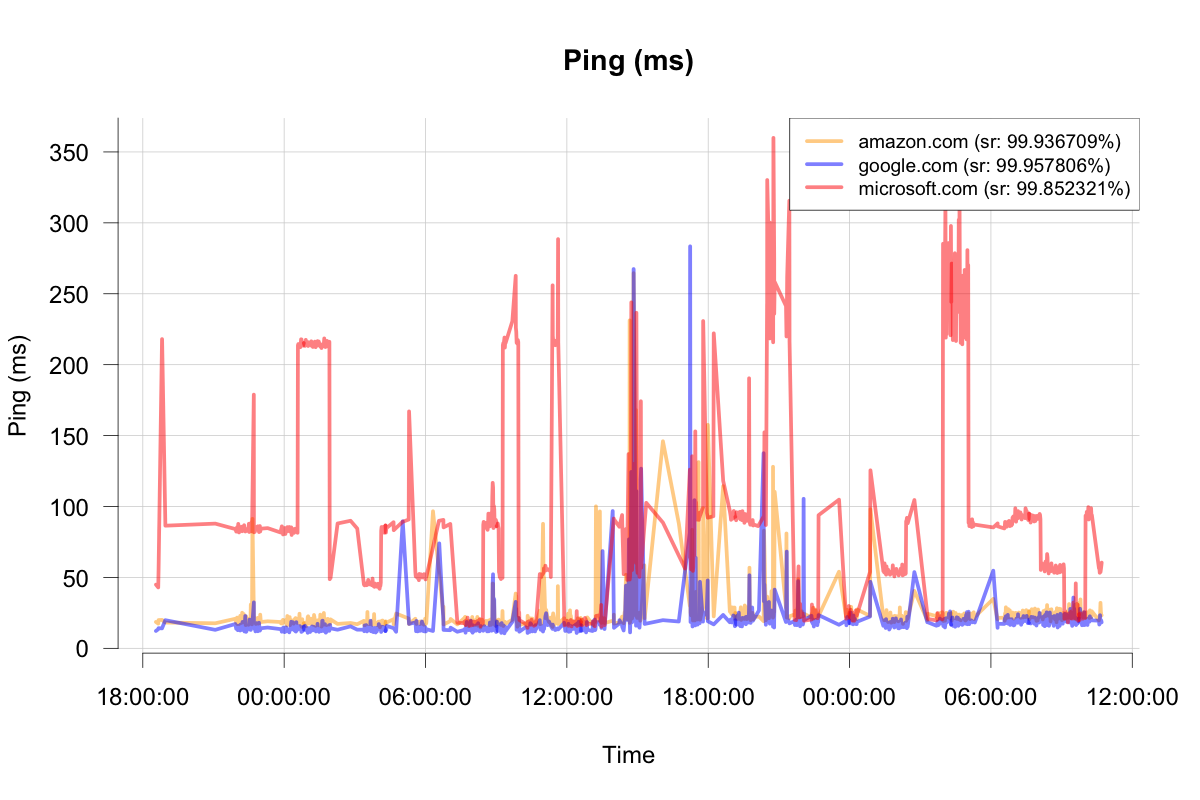
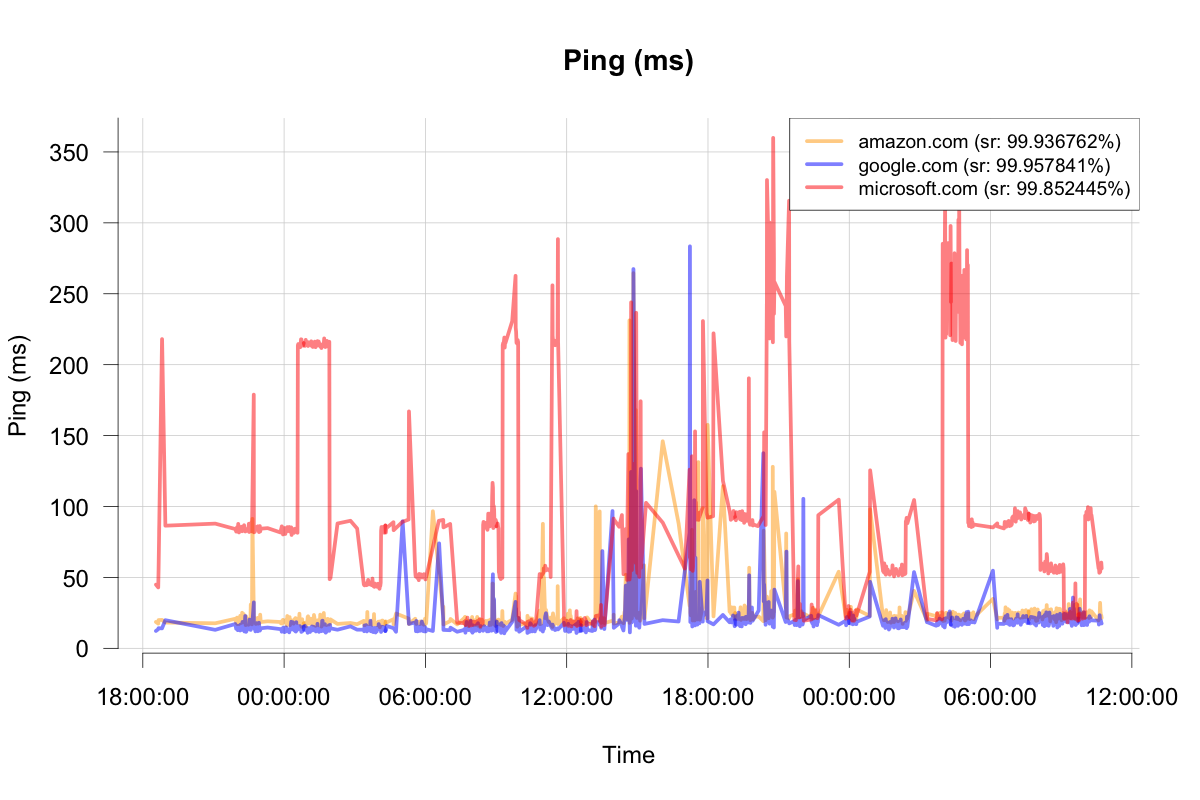
update netmon

diff --git a/netmon/index.html b/netmon/index.html
@@ -1,10 +1,7 @@
-Network Monitor - last updated Sun Oct 20 10:42:10 EDT 2024
+Network Monitor - last updated Sun Oct 20 10:43:11 EDT 2024
 ![Ping](netmon.png)
 ```
 time                 site           snd  rec  min_ms  avg_ms  max_ms   sd
-2024-10-20 10:06:00  google.com     4    4    10.062  16.475  20.653   3.928
-2024-10-20 10:06:04  amazon.com     4    4    19.801  22.958  26.252   2.282
-2024-10-20 10:06:07  microsoft.com  4    4    87.638  92.454  97.242   3.420
 2024-10-20 10:07:00  google.com     4    4    13.831  20.307  27.184   4.933
 2024-10-20 10:07:03  amazon.com     4    4    22.909  23.877  24.961   0.756
 2024-10-20 10:07:07  microsoft.com  4    4    90.944  94.348  98.847   2.849
@@ -62,6 +59,9 @@ time                 site           snd  rec  min_ms  avg_ms  max_ms   sd
 2024-10-20 10:42:00  google.com     4    4    14.871  18.332  19.977   2.022
 2024-10-20 10:42:03  amazon.com     4    4    21.853  23.306  25.136   1.453
 2024-10-20 10:42:07  microsoft.com  4    4    52.817  60.464  76.927   9.629
+2024-10-20 10:43:01  google.com     4    4    14.628  17.511  20.054   2.231
+2024-10-20 10:43:04  amazon.com     4    4    16.331  21.459  25.501   3.682
+2024-10-20 10:43:07  microsoft.com  4    4    53.629  56.387  58.096   1.717
 ```
 
 <!-- This will refresh the page every 60 seconds -->
